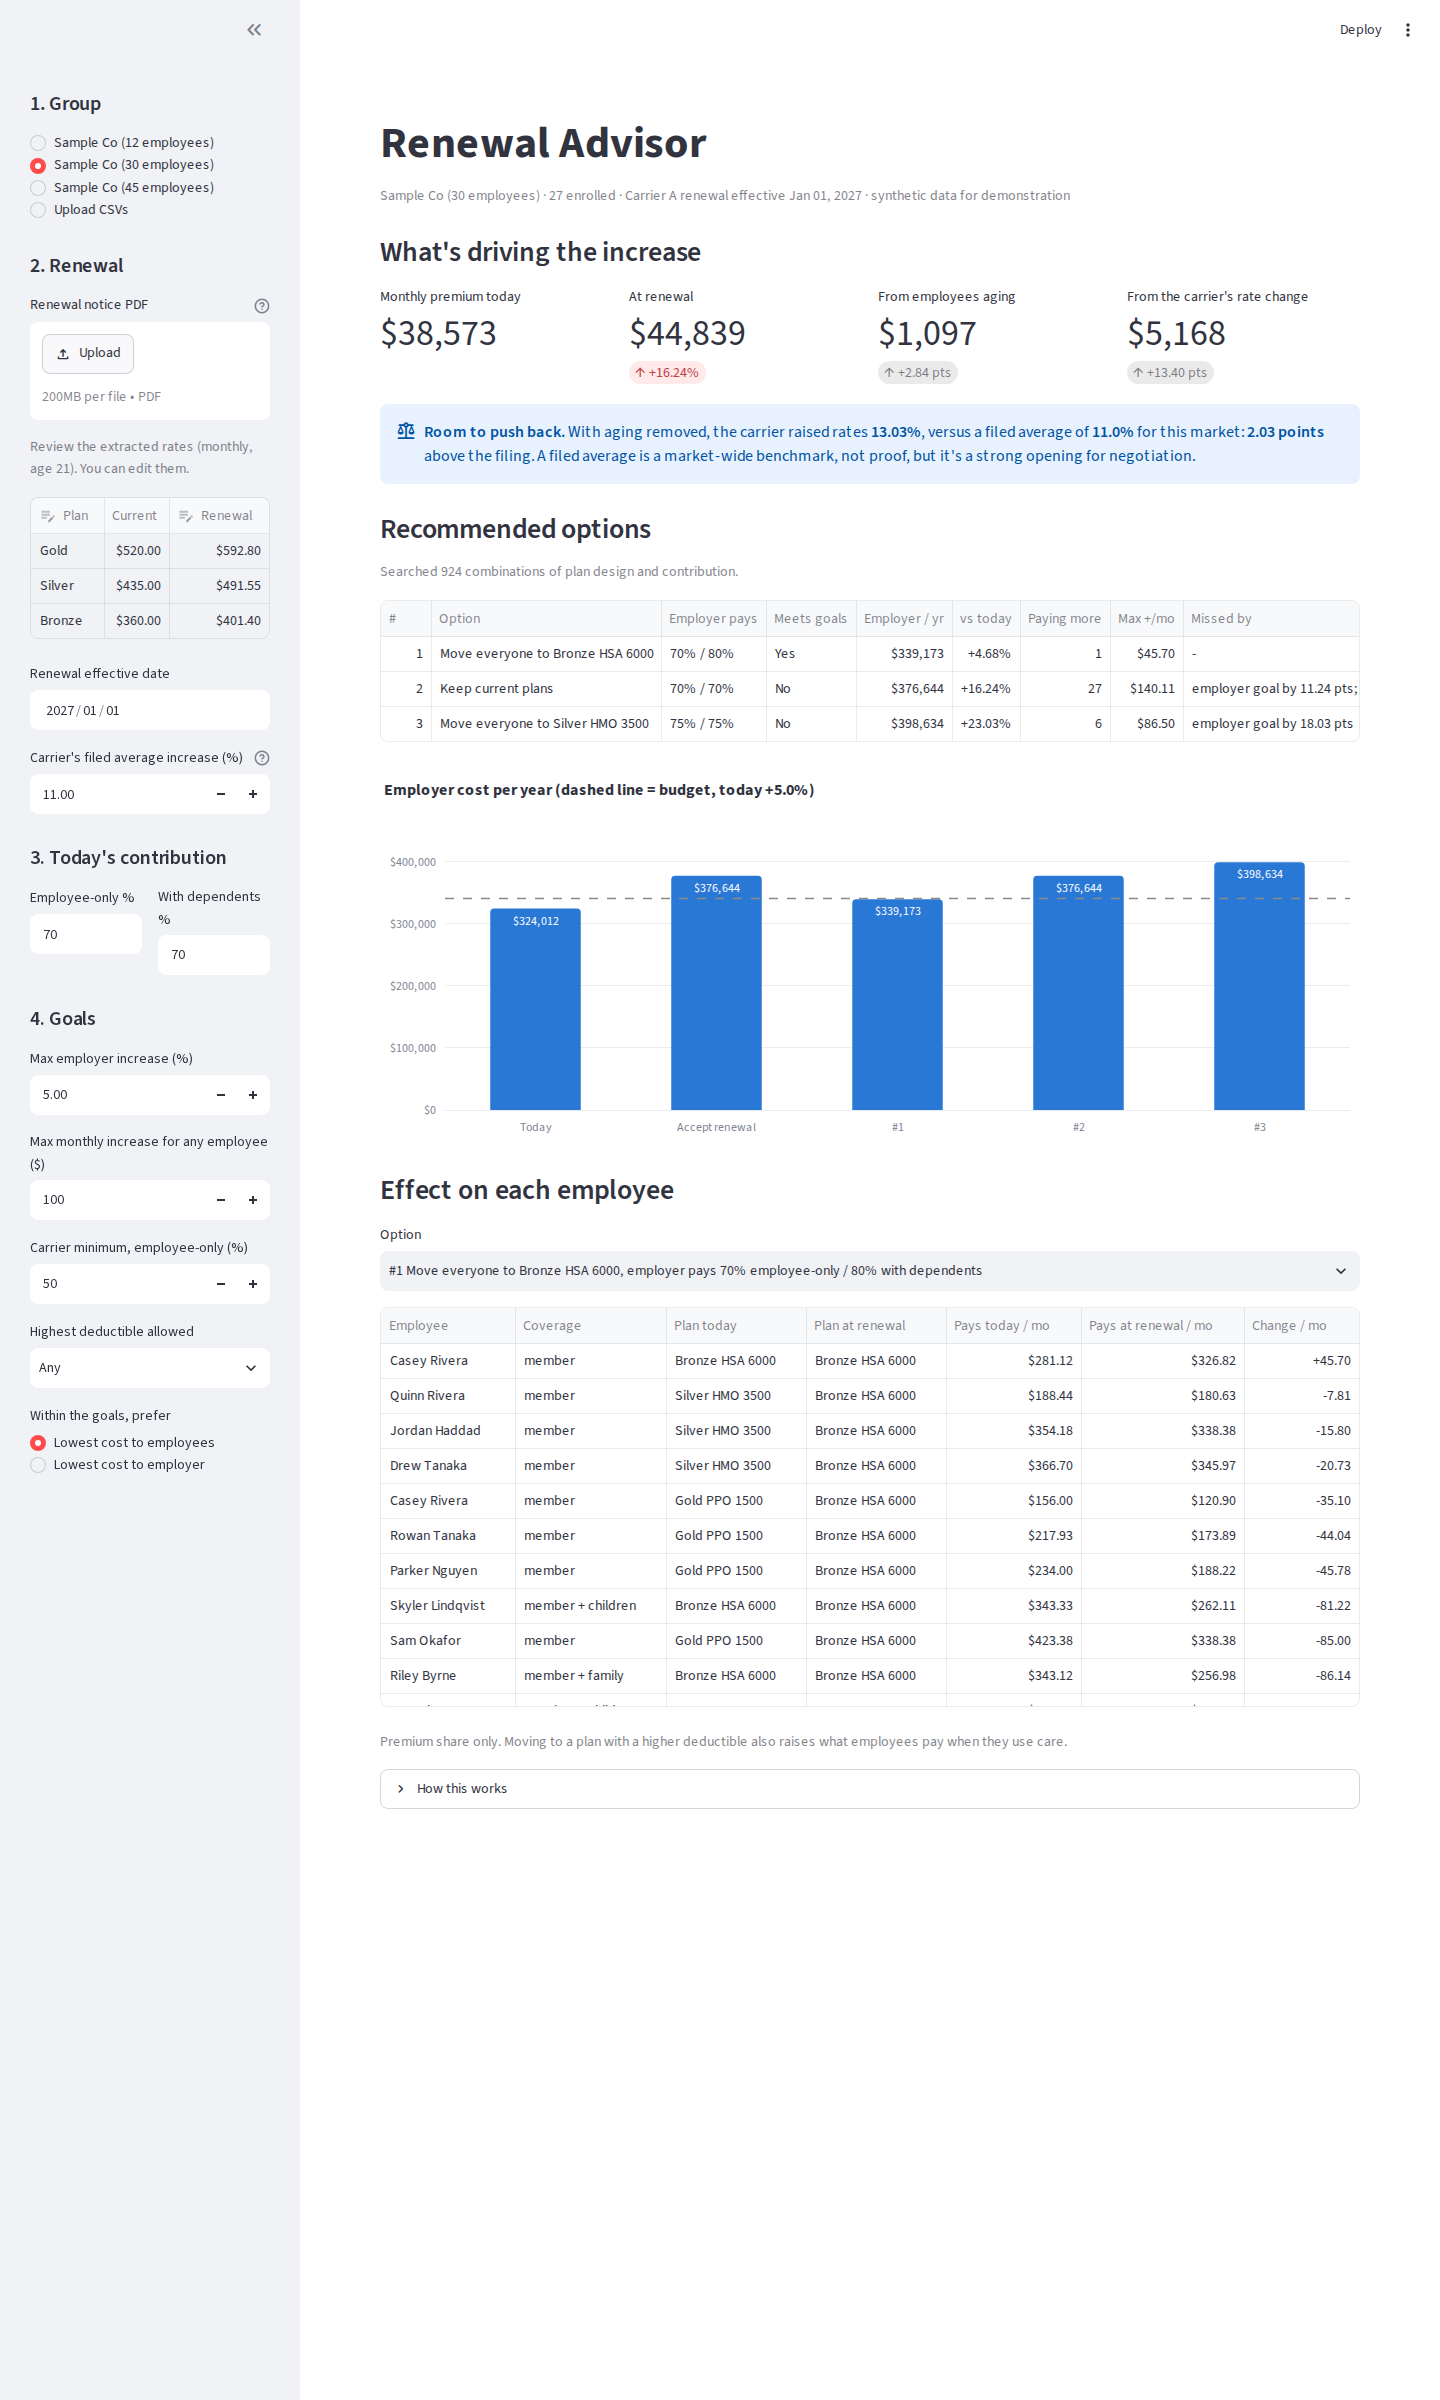
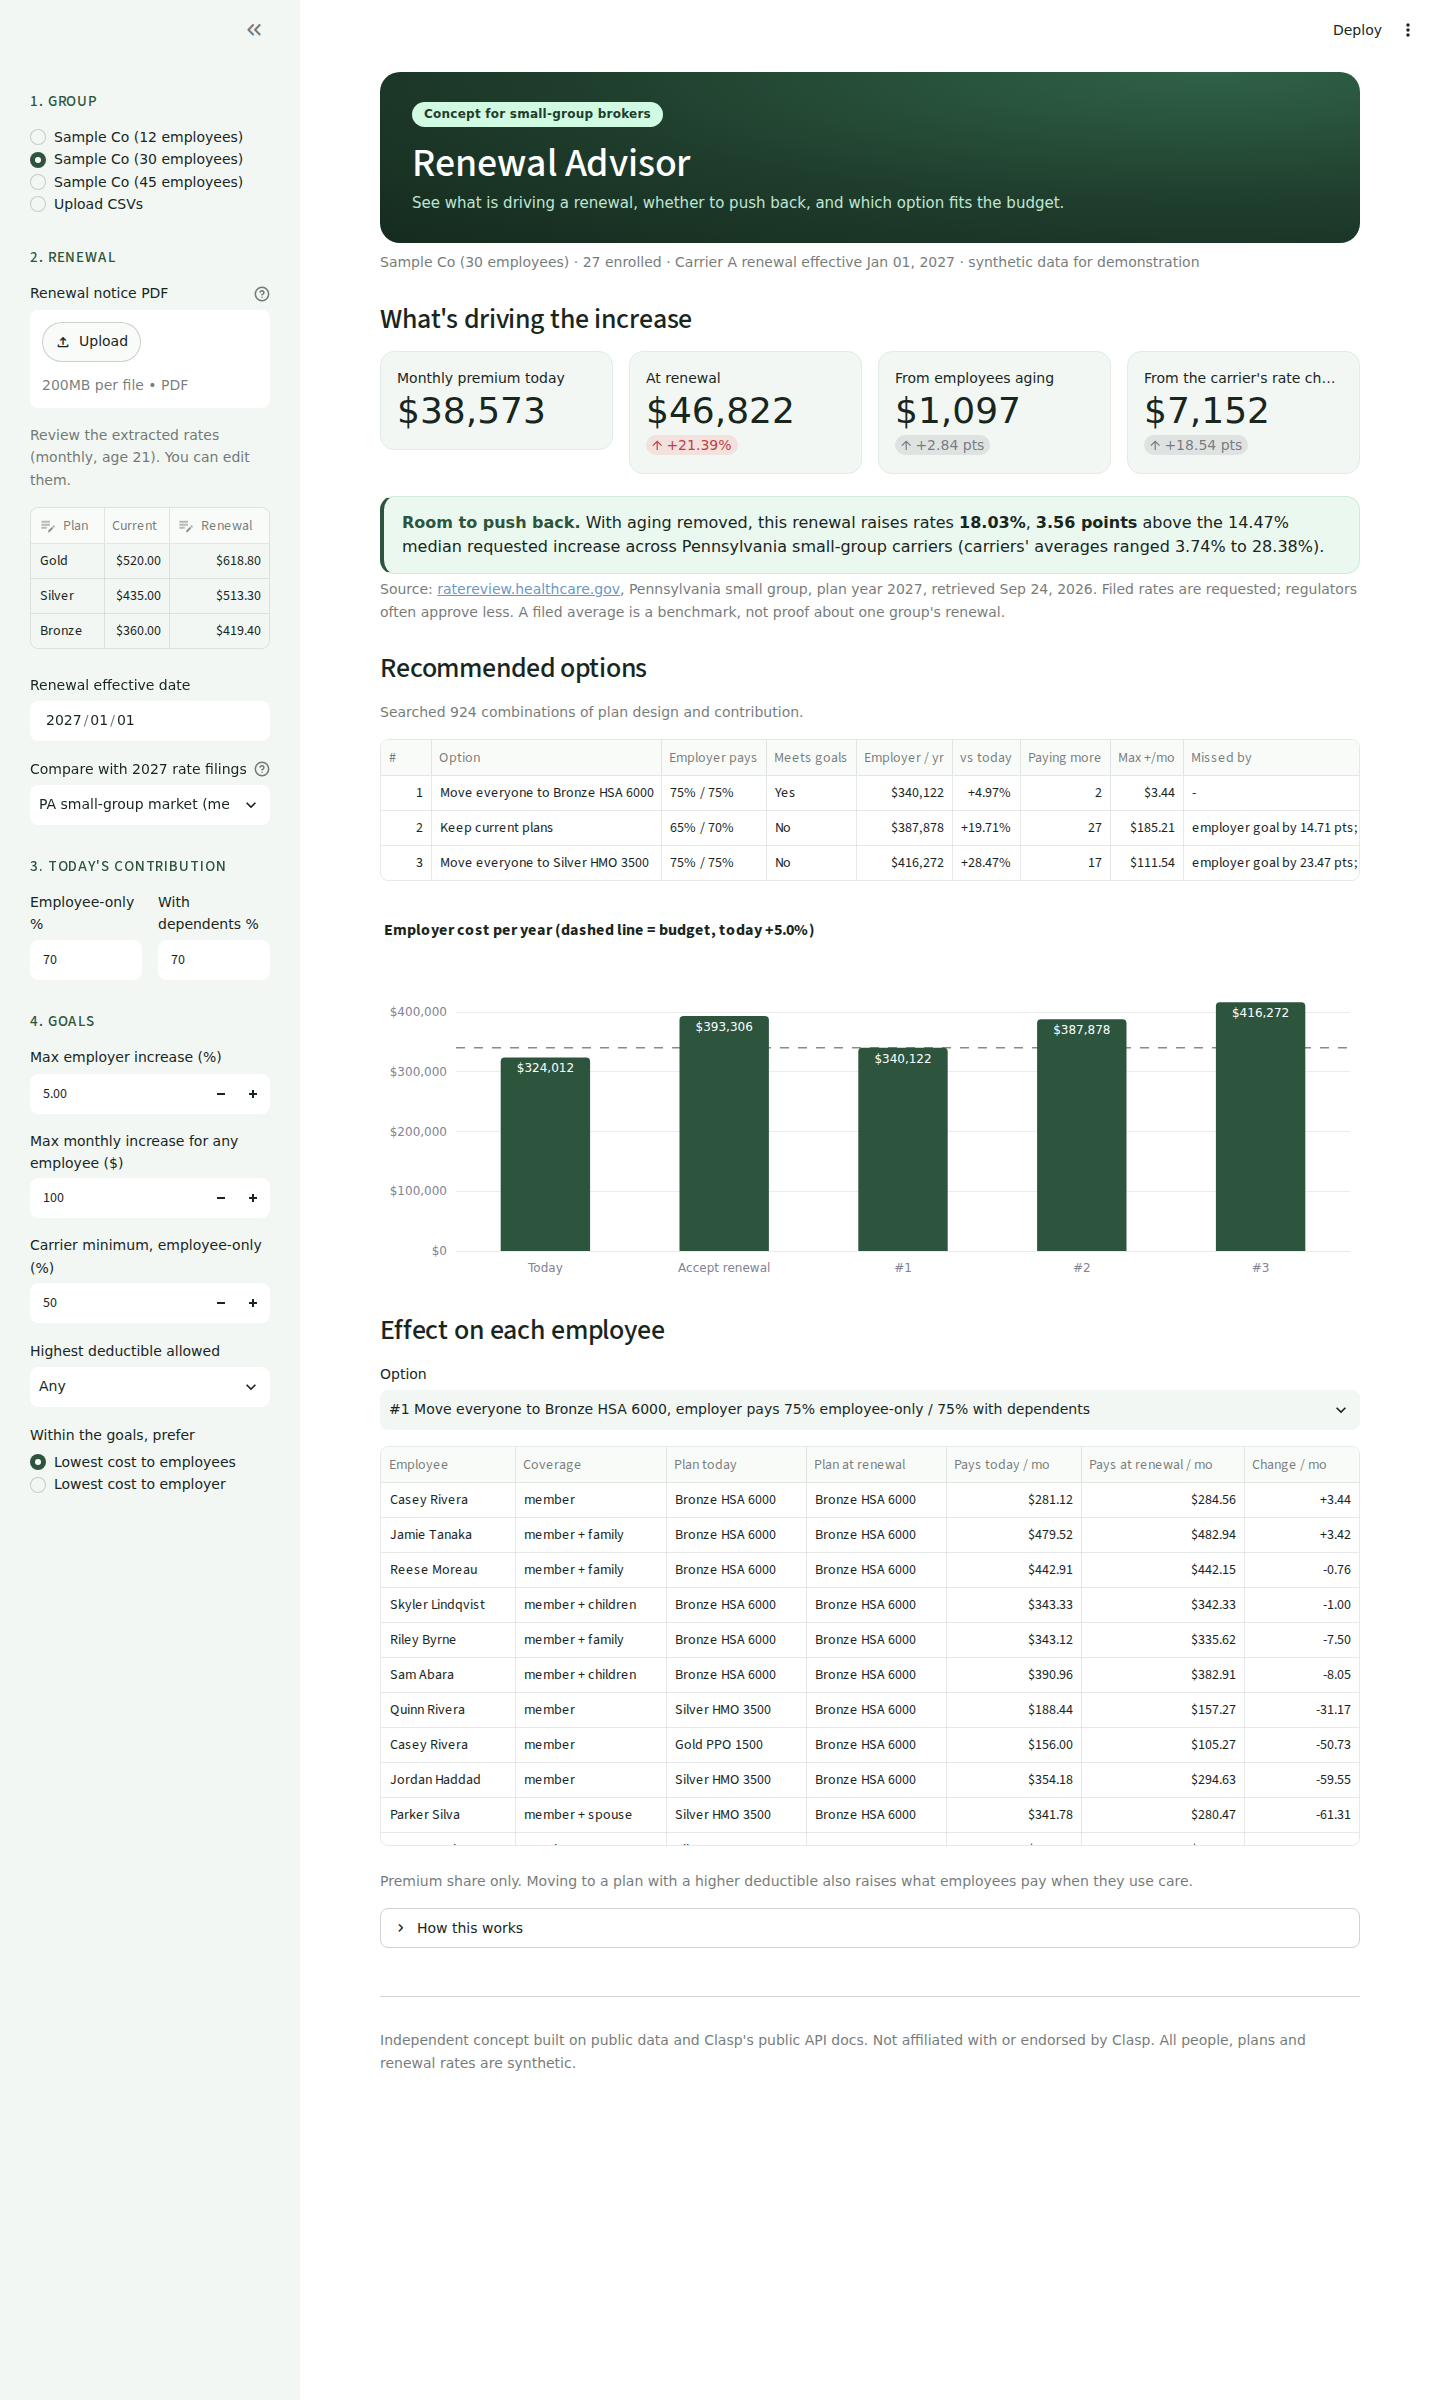
Clasp-inspired styling, real PA filings

diff --git a/app.py b/app.py
@@ -26,7 +26,11 @@ from renewal_advisor.filings import (SOURCE_URL, against_carrier, against_market
 from renewal_advisor.renewal import break_down_renewal  # noqa: E402
 from renewal_advisor.scenarios import accept_renewal, baseline, compare, evaluate  # noqa: E402
 
-SERIES = "#2a78d6"      # categorical slot 1 (reference palette)
+# Palette inspired by Clasp's site: forest green + mint on white.
+GREEN = "#2D553E"       # primary / bars
+DEEP = "#1F3D2C"        # hero background
+MINT = "#D0FAE2"        # accents on dark
+SERIES = GREEN
 MUTED = "#8a8984"       # reference lines
 SAMPLES = {"Sample Co (12 employees)": (12, 1), "Sample Co (30 employees)": (30, 2),
            "Sample Co (45 employees)": (45, 3)}
@@ -34,6 +38,37 @@ GOAL_LABELS = {"employer_increase_pct": "employer goal by {:.2f} pts",
                "employee_monthly_increase": "employee cap by ${:,.2f}/mo"}
 
 st.set_page_config(page_title="Renewal Advisor", layout="wide")
+st.markdown(f"""
+<style>
+@import url('https://fonts.googleapis.com/css2?family=DM+Sans:opsz,wght@9..40,400;9..40,500;9..40,700&display=swap');
+html, body, p, li, label, input, textarea, h1, h2, h3,
+[data-testid="stMarkdownContainer"], [data-testid="stMetricValue"],
+[data-testid="stMetricLabel"], [data-testid="stCaptionContainer"] {{
+  font-family: 'DM Sans', system-ui, sans-serif;
+}}
+h1, h2, h3 {{ font-weight: 500 !important; letter-spacing: -0.01em; color: {DEEP}; }}
+.block-container {{ padding-top: 3.5rem; max-width: 1200px; }}
+.callout {{ background:#EAF8EF; border:1px solid #CFEBD9; border-left:4px solid {GREEN};
+  border-radius:14px; padding:14px 18px; color:#18261E; margin:6px 0 4px; line-height:1.5; }}
+.callout b.head {{ color:{GREEN}; }}
+.hero {{
+  background: radial-gradient(120% 140% at 85% 0%, #2f6247 0%, {DEEP} 55%, #152b1f 100%);
+  border-radius: 20px; padding: 28px 32px; margin-bottom: 8px; color: #fff;
+}}
+.hero .eyebrow {{ display:inline-block; background:{MINT}; color:{DEEP}; border-radius:999px;
+  padding:3px 12px; font-size:12px; font-weight:700; letter-spacing:.02em; }}
+.hero h1 {{ color:#fff !important; font-size:40px; margin:12px 0 4px; padding:0; }}
+.hero p {{ color:{MINT}; margin:0; font-size:15px; opacity:.9; }}
+[data-testid="stMetric"] {{ background:#F2F7F3; border:1px solid #E1ECE4; border-radius:14px;
+  padding:14px 16px; }}
+[data-testid="stAlert"] {{ border-radius:14px; }}
+[data-testid="stSidebar"] {{ background:#F2F7F3; }}
+[data-testid="stSidebar"] h2 {{ font-size:15px; text-transform:uppercase; letter-spacing:.06em;
+  color:{GREEN}; }}
+button[kind] {{ border-radius:999px !important; }}
+[data-testid="stDataFrame"], [data-testid="stExpander"] {{ border-radius:14px; }}
+</style>
+""", unsafe_allow_html=True)
 
 
 def money(x, decimals=0) -> str:
@@ -129,7 +164,11 @@ with st.spinner("Searching options..."):
     rec = recommend(group, current, renewal_rates, renewal_date, goals, objective=objective)
 
 # ------------------------------------------------------------------- main ---
-st.title("Renewal Advisor")
+st.markdown(
+    '<div class="hero"><span class="eyebrow">Concept for small-group brokers</span>'
+    '<h1>Renewal Advisor</h1>'
+    '<p>See what is driving a renewal, whether to push back, and which option fits the '
+    'budget.</p></div>', unsafe_allow_html=True)
 st.caption(f"{group.name} · {len(group.enrolled_members)} enrolled · {notice.carrier} renewal "
            f"effective {renewal_date:%b %d, %Y} · synthetic data for demonstration")
 
@@ -140,7 +179,7 @@ m2.metric("At renewal", money(breakdown.renewal_monthly), f"{breakdown.total_pct
           delta_color="inverse")
 m3.metric("From employees aging", money(breakdown.aging_effect), f"{breakdown.aging_pct:+} pts",
           delta_color="off")
-m4.metric("From the carrier's rate change", money(breakdown.rate_effect),
+m4.metric("From the rate change", money(breakdown.rate_effect),
           f"{breakdown.rate_pct:+} pts", delta_color="off")
 
 kind = "requested" if bench.requested else "approved"
@@ -151,16 +190,19 @@ ref_txt = (f"{bench.reference_pct}% median {kind} increase across Pennsylvania s
            f"carriers" if compare_to == MARKET else
            f"{bench.reference_pct}% average {kind} increase in {bench.against}'s filing")
 if bench.verdict == "above_range":
-    st.info(f"**Strong case to push back.** With aging removed, this renewal raises rates "
-            f"**{bench.group_rate_pct}%**. That's above the {ref_txt} and above the top of the "
-            f"range ({range_txt}).", icon=":material/balance:")
+    head = "Strong case to push back."
+    body = (f"With aging removed, this renewal raises rates <b>{bench.group_rate_pct}%</b>. "
+            f"That's above the {ref_txt} and above the top of the range ({range_txt}).")
 elif bench.verdict == "above_average":
-    st.info(f"**Room to push back.** With aging removed, this renewal raises rates "
-            f"**{bench.group_rate_pct}%**, **{bench.gap_pct} points** above the {ref_txt} "
-            f"({range_txt}).", icon=":material/balance:")
+    head = "Room to push back."
+    body = (f"With aging removed, this renewal raises rates <b>{bench.group_rate_pct}%</b>, "
+            f"<b>{bench.gap_pct} points</b> above the {ref_txt} ({range_txt}).")
 else:
-    st.info(f"With aging removed, this renewal raises rates **{bench.group_rate_pct}%**, at or "
-            f"below the {ref_txt} ({range_txt}).", icon=":material/check_circle:")
+    head = "In line with the filings."
+    body = (f"With aging removed, this renewal raises rates <b>{bench.group_rate_pct}%</b>, at or "
+            f"below the {ref_txt} ({range_txt}).")
+st.markdown(f'<div class="callout"><b class="head">{head}</b> {body}</div>',
+            unsafe_allow_html=True)
 st.caption(f"Source: [ratereview.healthcare.gov]({SOURCE_URL}), Pennsylvania small group, plan "
            f"year 2027, retrieved Sep 24, 2026. Filed rates are {kind}; regulators often approve "
            f"less. A filed average is a benchmark, not proof about one group's renewal.")
@@ -206,7 +248,7 @@ fig = go.Figure(go.Bar(
     textfont=dict(color="white"),
     customdata=hover, hovertemplate="<b>%{x}</b><br>%{customdata}<br>%{y:$,.0f} / yr<extra></extra>"))
 fig.add_hline(y=budget, line=dict(color=MUTED, dash="dash", width=1.5), layer="below")
-fig.update_layout(title=f"Employer cost per year (dashed line = budget, today "
+fig.update_layout(font=dict(family="DM Sans, system-ui, sans-serif"), title=f"Employer cost per year (dashed line = budget, today "
                         f"+{goals.max_employer_increase_pct}%)", height=380, margin=dict(t=60, b=20, l=10, r=10),
                   yaxis=dict(tickformat="$,.0f", gridcolor="rgba(128,128,128,0.15)",
                              range=[0, max(values + [budget]) * 1.15]),
@@ -247,3 +289,8 @@ with st.expander("How this works"):
         "employer % for employee-only x employer % with dependents, in 5% steps, keeps those that "
         "meet the goals, and picks the best within each design.\n"
         "- All math is deterministic Python; field names follow Clasp's API.")
+
+st.divider()
+st.caption("Independent concept built on public data and Clasp's public API docs. "
+           "Not affiliated with or endorsed by Clasp. All people, plans and renewal rates are "
+           "synthetic.")

diff --git a/tests/test_app.py b/tests/test_app.py
@@ -29,4 +29,5 @@ def test_app_benchmarks_against_a_specific_carrier():
     at = AppTest.from_file(APP, default_timeout=60).run()
     at.sidebar.selectbox[0].set_value("Highmark Coverage Advantage Inc.").run()
     assert not at.exception
-    assert any("Strong case to push back" in i.value for i in at.info)  # 18% > 13.59% top of range
+    html = " ".join(m.value for m in at.markdown)
+    assert "Strong case to push back" in html  # 18% > 13.59% top of range
